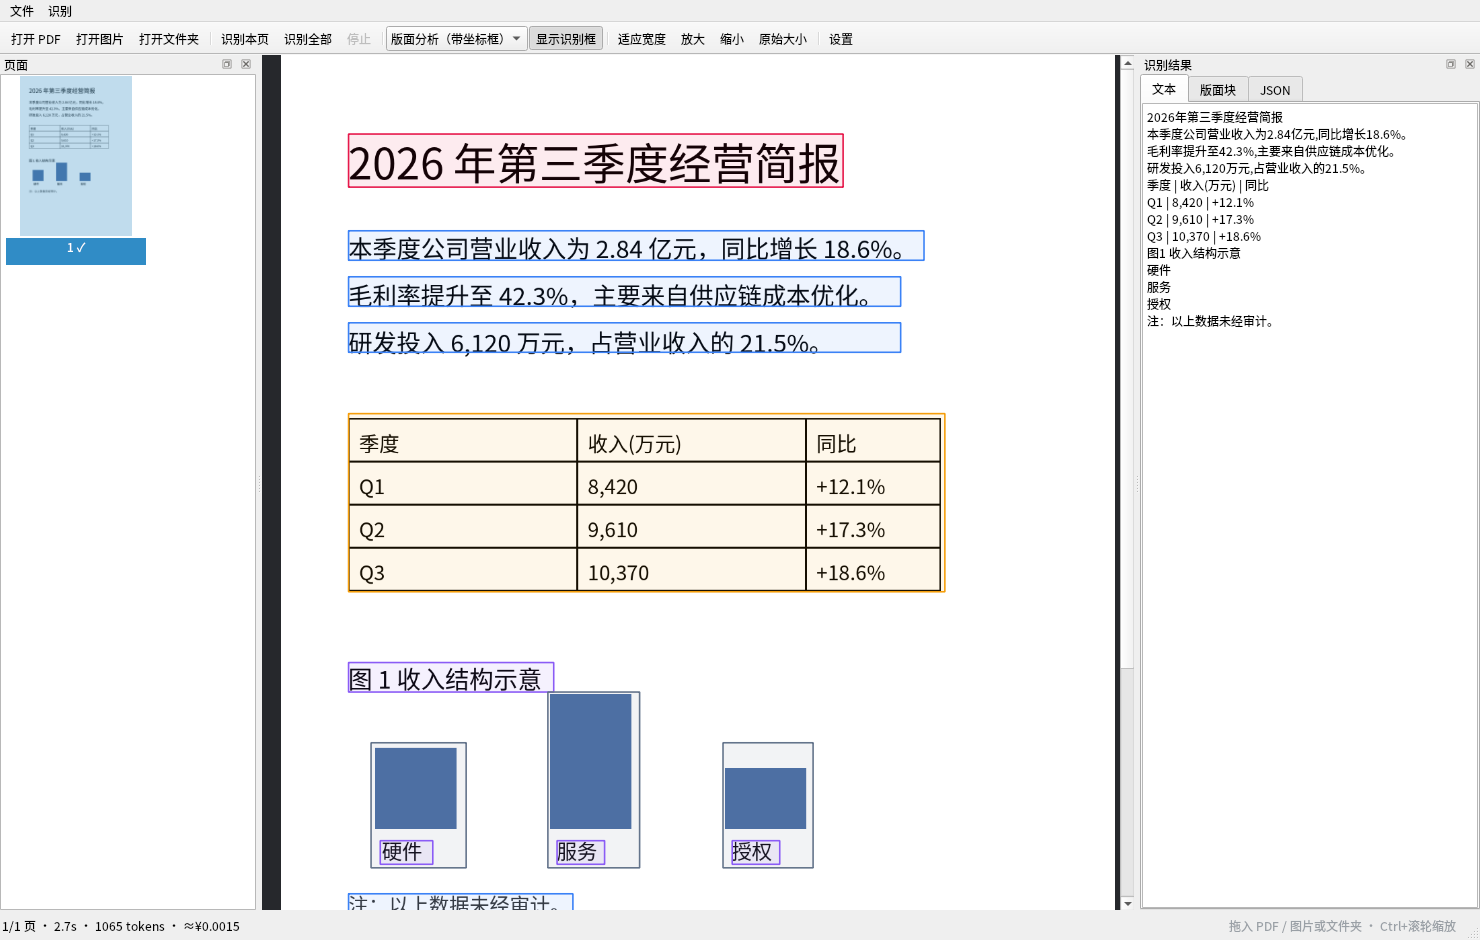
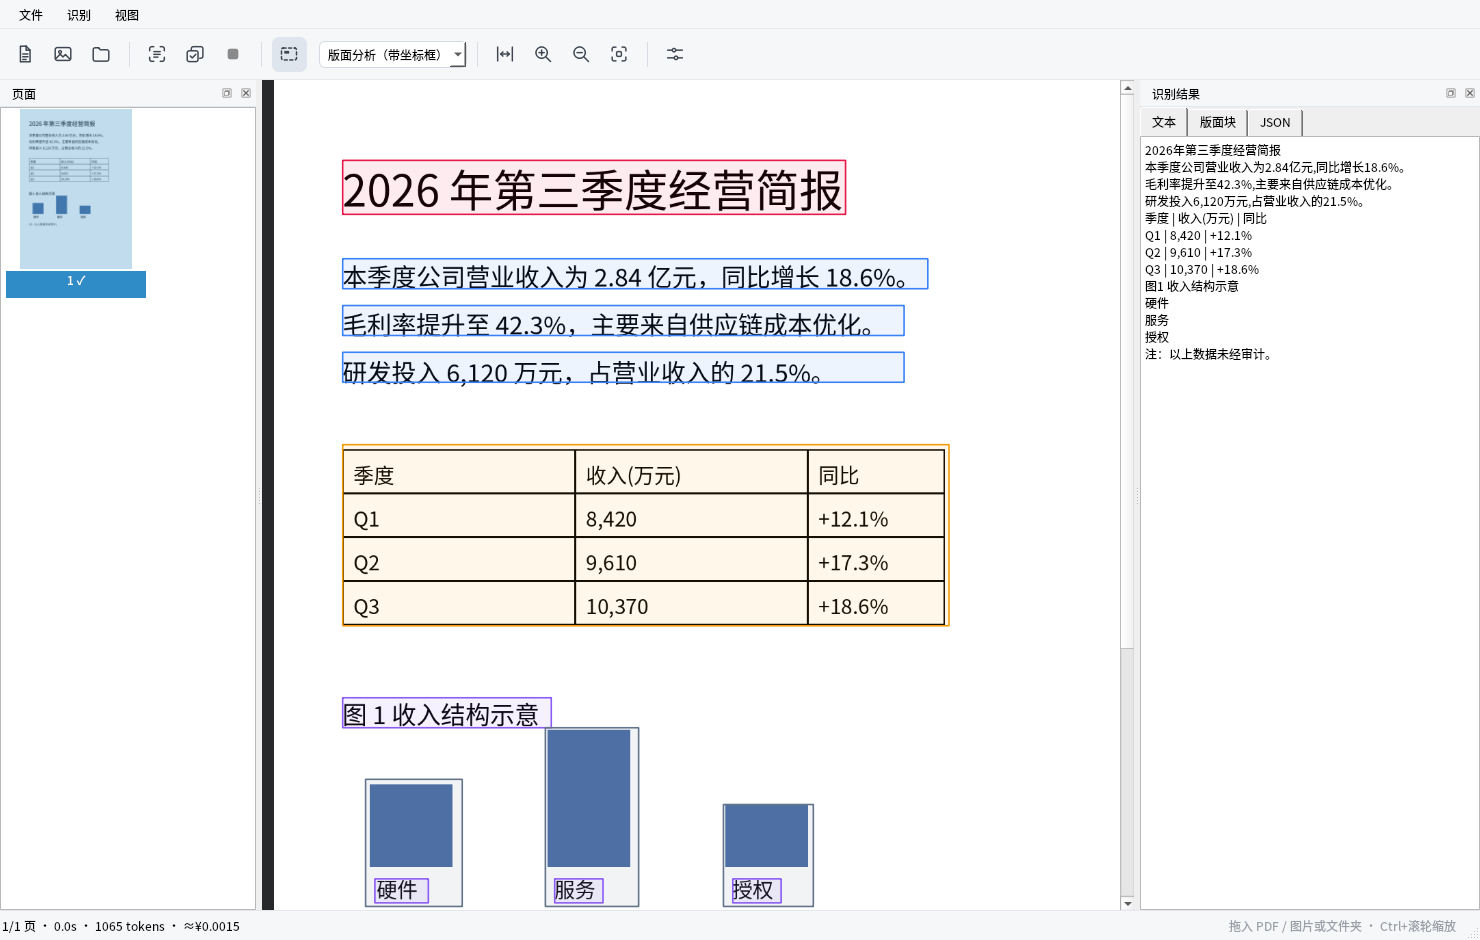
ui: 极简图标集与纯图标工具栏
- 新增 12 个手写线性 SVG 图标（24x24）与深色圆角应用图标
- 工具栏改为图标模式，悬停显示名称+快捷键，菜单保留文字入口
- 轻量样式表：工具栏/菜单栏/状态栏统一浅灰、圆角悬停、可见分隔线
- 安装 desktop 入口与 hicolor 图标

Changed region(s): [[0.0, 0.0, 0.6527, 0.9872], [0.7459, 0.0617, 1.0, 0.9872], [0.4662, 0.8021, 0.5595, 0.9872]]

diff --git a/src/mainwindow.cpp b/src/mainwindow.cpp
@@ -74,6 +74,7 @@ MainWindow::MainWindow(QWidget *parent)
 
     setAcceptDrops(true);
     resize(1480, 940);
+    setWindowIcon(QIcon(QStringLiteral(":/icons/app.svg")));
     setWindowTitle(QStringLiteral("docr-qt"));
 }
 
@@ -156,83 +157,130 @@ void MainWindow::buildUi()
 void MainWindow::buildActions()
 {
     auto *toolbar = addToolBar(QStringLiteral("主工具栏"));
+    toolbar->setObjectName(QStringLiteral("mainToolbar"));
     toolbar->setMovable(false);
+    toolbar->setFloatable(false);
+    toolbar->setIconSize(QSize(22, 22));
+    toolbar->setToolButtonStyle(Qt::ToolButtonIconOnly);
 
-    auto add = [this, toolbar](const QString &text, const QKeySequence &shortcut,
-                               auto &&slot) {
-        auto *action = new QAction(text, this);
+    auto make = [this](const QString &icon, const QString &text,
+                       const QKeySequence &shortcut, auto &&slot) {
+        auto *action = new QAction(QIcon(QStringLiteral(":/icons/%1.svg").arg(icon)), text, this);
         if (!shortcut.isEmpty())
             action->setShortcut(shortcut);
+        const QString tip = shortcut.isEmpty()
+                                ? text
+                                : QStringLiteral("%1  %2").arg(
+                                      text, shortcut.toString(QKeySequence::NativeText));
+        action->setToolTip(tip);
+        action->setStatusTip(text);
+        action->setIconVisibleInMenu(false);
         connect(action, &QAction::triggered, this, slot);
-        toolbar->addAction(action);
         return action;
     };
 
-    add(QStringLiteral("打开 PDF"), QKeySequence::Open, [this] { openFiles(); });
-    add(QStringLiteral("打开图片"), QKeySequence(QStringLiteral("Ctrl+Shift+O")),
-        [this] { openFiles(); });
-    add(QStringLiteral("打开文件夹"), QKeySequence(), [this] { openDirectory(); });
+    QAction *openPdf = make(QStringLiteral("open-pdf"), QStringLiteral("打开 PDF"),
+                            QKeySequence::Open, [this] { openFiles(); });
+    QAction *openImage = make(QStringLiteral("open-image"), QStringLiteral("打开图片"),
+                              QKeySequence(QStringLiteral("Ctrl+Shift+O")),
+                              [this] { openFiles(); });
+    QAction *openFolder = make(QStringLiteral("open-folder"), QStringLiteral("打开文件夹"),
+                               QKeySequence(), [this] { openDirectory(); });
 
-    toolbar->addSeparator();
-
-    add(QStringLiteral("识别本页"), QKeySequence(QStringLiteral("Ctrl+R")),
-        [this] { startOcrCurrent(); });
-    add(QStringLiteral("识别全部"), QKeySequence(QStringLiteral("Ctrl+Shift+R")),
-        [this] { startOcrAll(); });
-    auto *stop = add(QStringLiteral("停止"), QKeySequence(Qt::Key_Escape),
-                     [this] { stopOcr(); });
+    QAction *ocrPage = make(QStringLiteral("ocr-page"), QStringLiteral("识别本页"),
+                            QKeySequence(QStringLiteral("Ctrl+R")),
+                            [this] { startOcrCurrent(); });
+    QAction *ocrAll = make(QStringLiteral("ocr-all"), QStringLiteral("识别全部"),
+                           QKeySequence(QStringLiteral("Ctrl+Shift+R")),
+                           [this] { startOcrAll(); });
+    QAction *stop = make(QStringLiteral("stop"), QStringLiteral("停止"),
+                         QKeySequence(Qt::Key_Escape), [this] { stopOcr(); });
     stop->setEnabled(false);
     m_stopAction = stop;
 
-    toolbar->addSeparator();
+    QAction *showBoxes = make(QStringLiteral("boxes"), QStringLiteral("显示识别框"),
+                              QKeySequence(), [this] {});
+    showBoxes->disconnect(this);
+    showBoxes->setCheckable(true);
+    showBoxes->setChecked(true);
+    showBoxes->setToolTip(QStringLiteral("显示/隐藏版面框"));
+    connect(showBoxes, &QAction::toggled, this, [this](bool on) {
+        m_view->setBoxesVisible(on);
+    });
 
-    m_purposeBox = new QComboBox(this);
+    QAction *fit = make(QStringLiteral("fit-width"), QStringLiteral("适应宽度"),
+                        QKeySequence(Qt::Key_F), [this] { m_view->fitWidth(); });
+    QAction *zoomIn = make(QStringLiteral("zoom-in"), QStringLiteral("放大"),
+                           QKeySequence::ZoomIn, [this] { m_view->zoomBy(1.2); });
+    QAction *zoomOut = make(QStringLiteral("zoom-out"), QStringLiteral("缩小"),
+                            QKeySequence::ZoomOut, [this] { m_view->zoomBy(1 / 1.2); });
+    QAction *actual = make(QStringLiteral("actual-size"), QStringLiteral("原始大小"),
+                           QKeySequence(), [this] { m_view->resetZoom(); });
+    QAction *settings = make(QStringLiteral("settings"), QStringLiteral("设置"),
+                             QKeySequence(QStringLiteral("Ctrl+,")),
+                             [this] { openSettings(); });
+
+    toolbar->addAction(openPdf);
+    toolbar->addAction(openImage);
+    toolbar->addAction(openFolder);
+    toolbar->addSeparator();
+    toolbar->addAction(ocrPage);
+    toolbar->addAction(ocrAll);
+    toolbar->addAction(stop);
+    toolbar->addSeparator();
+    toolbar->addAction(showBoxes);
+
+    auto *purposeSpacer = new QWidget(toolbar);
+    purposeSpacer->setFixedWidth(6);
+    toolbar->addWidget(purposeSpacer);
+
+    m_purposeBox = new QComboBox(toolbar);
     m_purposeBox->addItem(QStringLiteral("版面分析（带坐标框）"),
                           QStringLiteral("rich_layout_recognition"));
     m_purposeBox->addItem(QStringLiteral("纯文本（更快）"),
                           QStringLiteral("text_recognition"));
-    m_purposeBox->setToolTip(QStringLiteral("rich_layout_recognition 会返回 <|ref|>/<|box|> 标记与坐标"));
+    m_purposeBox->setToolTip(QStringLiteral(
+        "rich_layout_recognition 返回 <|ref|>/<|box|> 标记与坐标；text_recognition 只返回文字"));
     toolbar->addWidget(m_purposeBox);
     connect(m_purposeBox, &QComboBox::currentIndexChanged, this, [this](int index) {
         m_purpose = m_purposeBox->itemData(index).toString();
         saveSettings();
     });
 
-    auto *showBoxes = new QAction(QStringLiteral("显示识别框"), this);
-    showBoxes->setCheckable(true);
-    showBoxes->setChecked(true);
-    toolbar->addAction(showBoxes);
-    connect(showBoxes, &QAction::toggled, this, [this](bool on) { m_view->setBoxesVisible(on); });
-
     toolbar->addSeparator();
-    add(QStringLiteral("适应宽度"), QKeySequence(Qt::Key_F), [this] { m_view->fitWidth(); });
-    add(QStringLiteral("放大"), QKeySequence::ZoomIn, [this] { m_view->zoomBy(1.2); });
-    add(QStringLiteral("缩小"), QKeySequence::ZoomOut, [this] { m_view->zoomBy(1 / 1.2); });
-    add(QStringLiteral("原始大小"), QKeySequence(), [this] { m_view->resetZoom(); });
-
+    toolbar->addAction(fit);
+    toolbar->addAction(zoomIn);
+    toolbar->addAction(zoomOut);
+    toolbar->addAction(actual);
     toolbar->addSeparator();
-    add(QStringLiteral("设置"), QKeySequence(QStringLiteral("Ctrl+,"), QKeySequence::NativeText),
-        [this] { openSettings(); });
+    toolbar->addAction(settings);
 
-    auto *menu = menuBar()->addMenu(QStringLiteral("文件"));
-    menu->addAction(QStringLiteral("打开…"), QKeySequence::Open, this, [this] { openFiles(); });
-    menu->addAction(QStringLiteral("打开文件夹…"), this, [this] { openDirectory(); });
-    menu->addSeparator();
-    menu->addAction(QStringLiteral("导出 Markdown…"), this, [this] { exportMarkdown(); });
-    menu->addAction(QStringLiteral("导出 JSON…"), this, [this] { exportJson(); });
-    menu->addAction(QStringLiteral("复制本页文本"), QKeySequence::Copy, this, [this] { copyText(); });
-    menu->addSeparator();
-    menu->addAction(QStringLiteral("退出"), QKeySequence::Quit, this, [this] { close(); });
+    auto *fileMenu = menuBar()->addMenu(QStringLiteral("文件"));
+    fileMenu->addAction(openPdf);
+    fileMenu->addAction(openImage);
+    fileMenu->addAction(openFolder);
+    fileMenu->addSeparator();
+    fileMenu->addAction(QStringLiteral("导出 Markdown…"), this, [this] { exportMarkdown(); });
+    fileMenu->addAction(QStringLiteral("导出 JSON…"), this, [this] { exportJson(); });
+    fileMenu->addAction(QStringLiteral("复制本页文本"), QKeySequence::Copy, this,
+                        [this] { copyText(); });
+    fileMenu->addSeparator();
+    fileMenu->addAction(QStringLiteral("退出"), QKeySequence::Quit, this, [this] { close(); });
 
     auto *ocrMenu = menuBar()->addMenu(QStringLiteral("识别"));
-    ocrMenu->addAction(QStringLiteral("本页"), QKeySequence(QStringLiteral("Ctrl+R")), this,
-                       [this] { startOcrCurrent(); });
-    ocrMenu->addAction(QStringLiteral("全部缺失页"), QKeySequence(QStringLiteral("Ctrl+Shift+R")),
-                       this, [this] { startOcrAll(); });
-    ocrMenu->addAction(QStringLiteral("停止"), QKeySequence(Qt::Key_Escape), this,
-                       [this] { stopOcr(); });
+    ocrMenu->addAction(ocrPage);
+    ocrMenu->addAction(ocrAll);
+    ocrMenu->addAction(stop);
     ocrMenu->addSeparator();
-    ocrMenu->addAction(QStringLiteral("设置…"), this, [this] { openSettings(); });
+    ocrMenu->addAction(settings);
+
+    auto *viewMenu = menuBar()->addMenu(QStringLiteral("视图"));
+    viewMenu->addAction(fit);
+    viewMenu->addAction(zoomIn);
+    viewMenu->addAction(zoomOut);
+    viewMenu->addAction(actual);
+    viewMenu->addSeparator();
+    viewMenu->addAction(showBoxes);
 }
 
 void MainWindow::applySettings()

diff --git a/src/main.cpp b/src/main.cpp
@@ -1,6 +1,7 @@
 #include <QApplication>
 #include <QCommandLineParser>
 #include <QFileInfo>
+#include <QIcon>
 #include <QTimer>
 
 #include "mainwindow.h"
@@ -9,6 +10,27 @@ int main(int argc, char *argv[])
 {
     QApplication app(argc, argv);
     QApplication::setApplicationName(QStringLiteral("docr-qt"));
+    QApplication::setDesktopFileName(QStringLiteral("docr-qt"));
+    QApplication::setWindowIcon(QIcon(QStringLiteral(":/icons/app.svg")));
+
+    app.setStyleSheet(QStringLiteral(R"(
+QToolBar { background: #f6f7f9; border: none; border-bottom: 1px solid #e4e7eb; padding: 5px 8px; spacing: 3px; }
+QToolBar::separator { background: #d9dde3; width: 1px; margin: 5px 7px; }
+QToolButton { border: none; border-radius: 7px; padding: 5px; }
+QToolButton:hover { background: #e9edf2; }
+QToolButton:pressed { background: #dde3ea; }
+QToolButton:checked { background: #dfe5ec; }
+QMenuBar { background: #f6f7f9; border-bottom: 1px solid #e4e7eb; padding: 2px 4px; }
+QMenuBar::item { padding: 4px 9px; border-radius: 5px; }
+QMenuBar::item:selected { background: #e9edf2; }
+QStatusBar { background: #f6f7f9; border-top: 1px solid #e4e7eb; }
+QStatusBar::item { border: none; }
+QComboBox { padding: 3px 8px; border: 1px solid #d5dae1; border-radius: 6px; background: white; }
+QComboBox:hover { border-color: #b9c0c9; }
+QDockWidget::title { background: #f6f7f9; padding: 5px 8px; border-bottom: 1px solid #e4e7eb; }
+QTabWidget::pane { border: none; }
+QTabBar::tab { padding: 6px 12px; }
+)"));
     QApplication::setOrganizationName(QStringLiteral("docr-qt"));
 
     QCommandLineParser parser;

diff --git a/README.md b/README.md
@@ -34,6 +34,23 @@ cmake --build build -j
 ./build/docr-qt
 ```
 
+## 界面
+
+工具栏为纯图标（悬停显示名称与快捷键），每个动作在菜单里也有文字入口：
+
+| 图标 | 动作 | 快捷键 |
+|---|---|---|
+| 文档 / 图片 / 文件夹 | 打开 PDF / 图片 / 目录 | `Ctrl+O` / `Ctrl+Shift+O` / — |
+| 扫描框 / 叠页 | 识别本页 / 识别全部 | `Ctrl+R` / `Ctrl+Shift+R` |
+| 实心方块 | 停止 | `Esc` |
+| 虚线框 | 显示/隐藏识别框 | — |
+| 双向箭头 / ± 放大镜 / 角标 | 适应宽度 / 放大 / 缩小 / 原始大小 | `F` / `Ctrl++` / `Ctrl+-` / — |
+| 滑杆 | 设置 | `Ctrl+,` |
+
+图标为手写的 24×24 线性 SVG（`assets/icons/`），应用图标是深色圆角方块 + 扫描角标
+（`assets/app.svg`）。`cmake --install` 会把图标装到 `share/icons/hicolor/scalable/apps/docr-qt.svg`，
+并安装 `assets/docr-qt.desktop`。
+
 ## 使用
 
 - **打开**：拖入 PDF / 图片 / 图片目录，或工具栏「打开 PDF / 打开图片 / 打开文件夹」。
